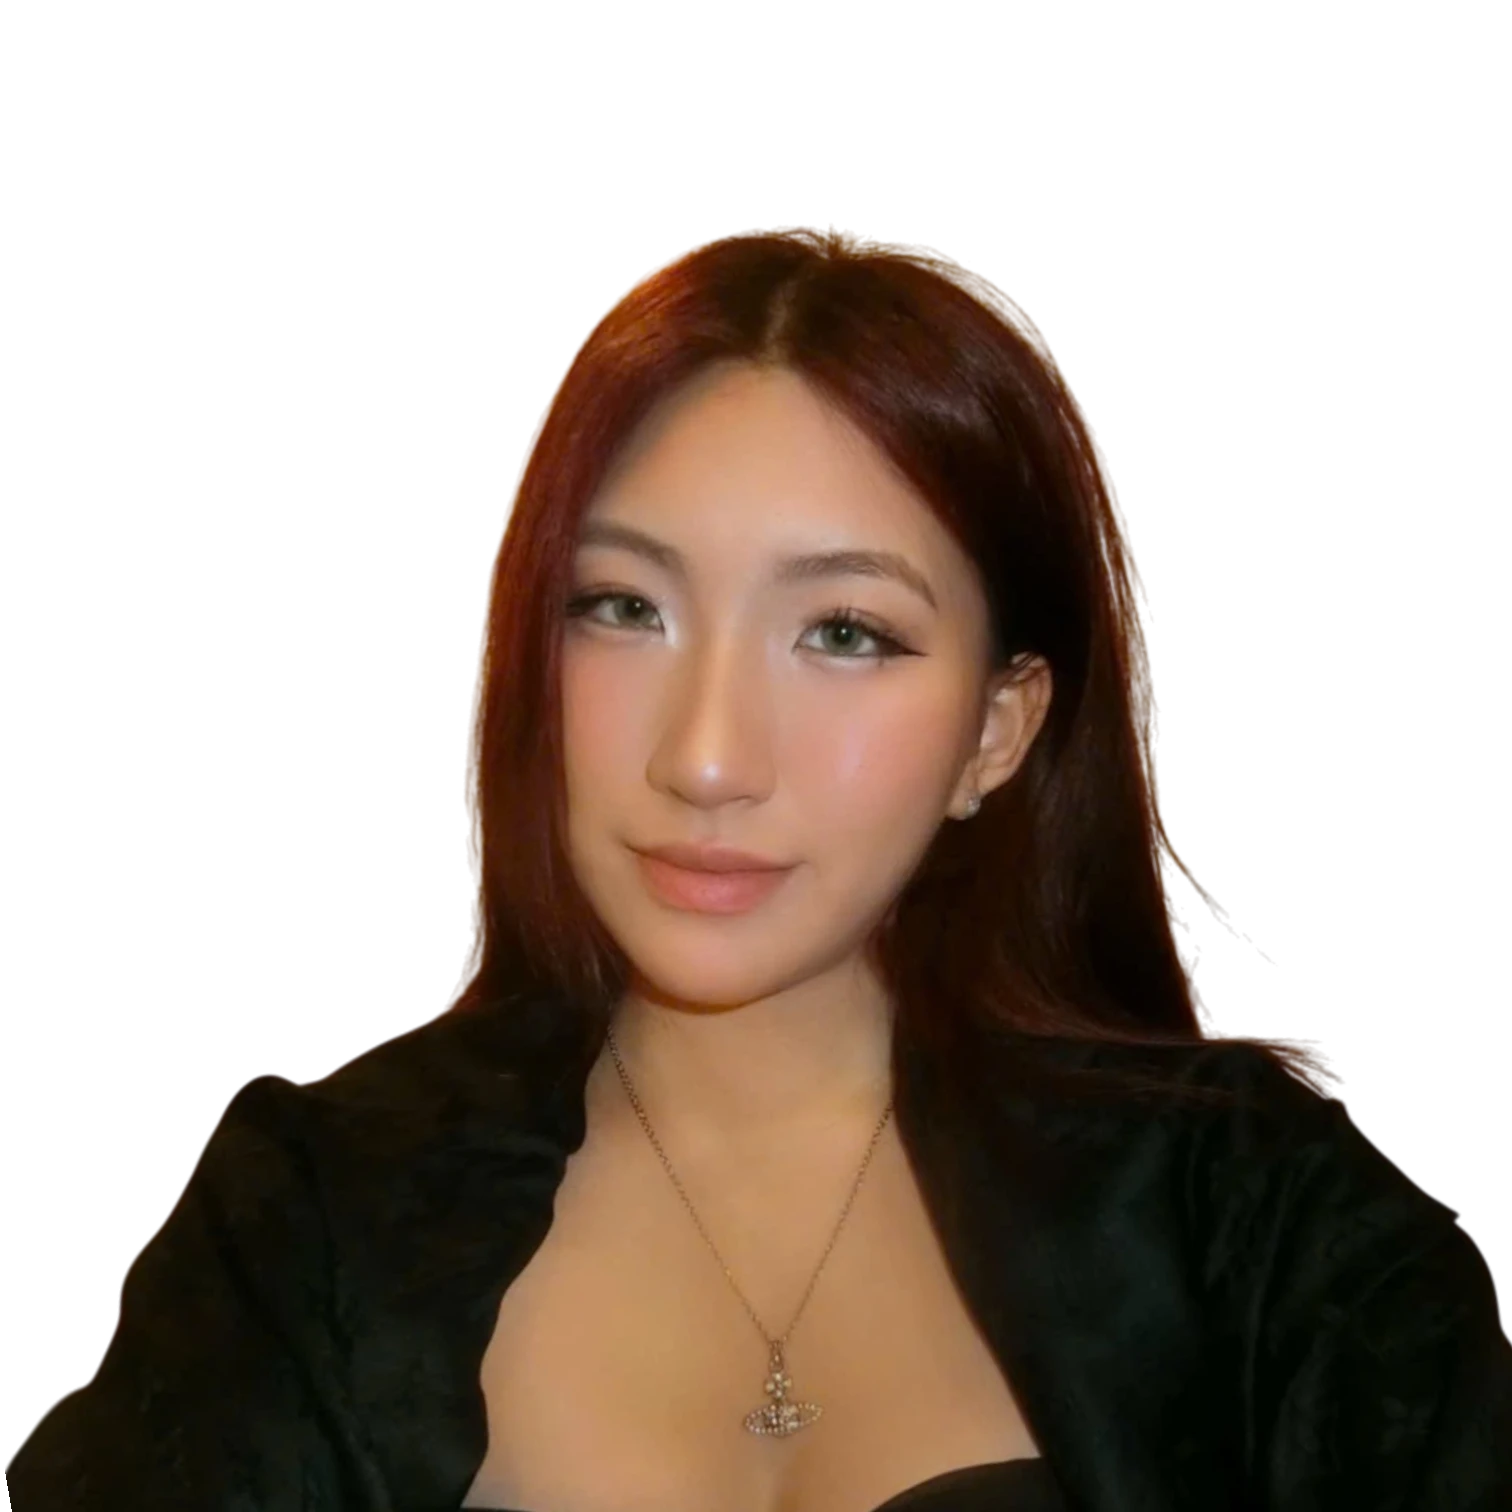
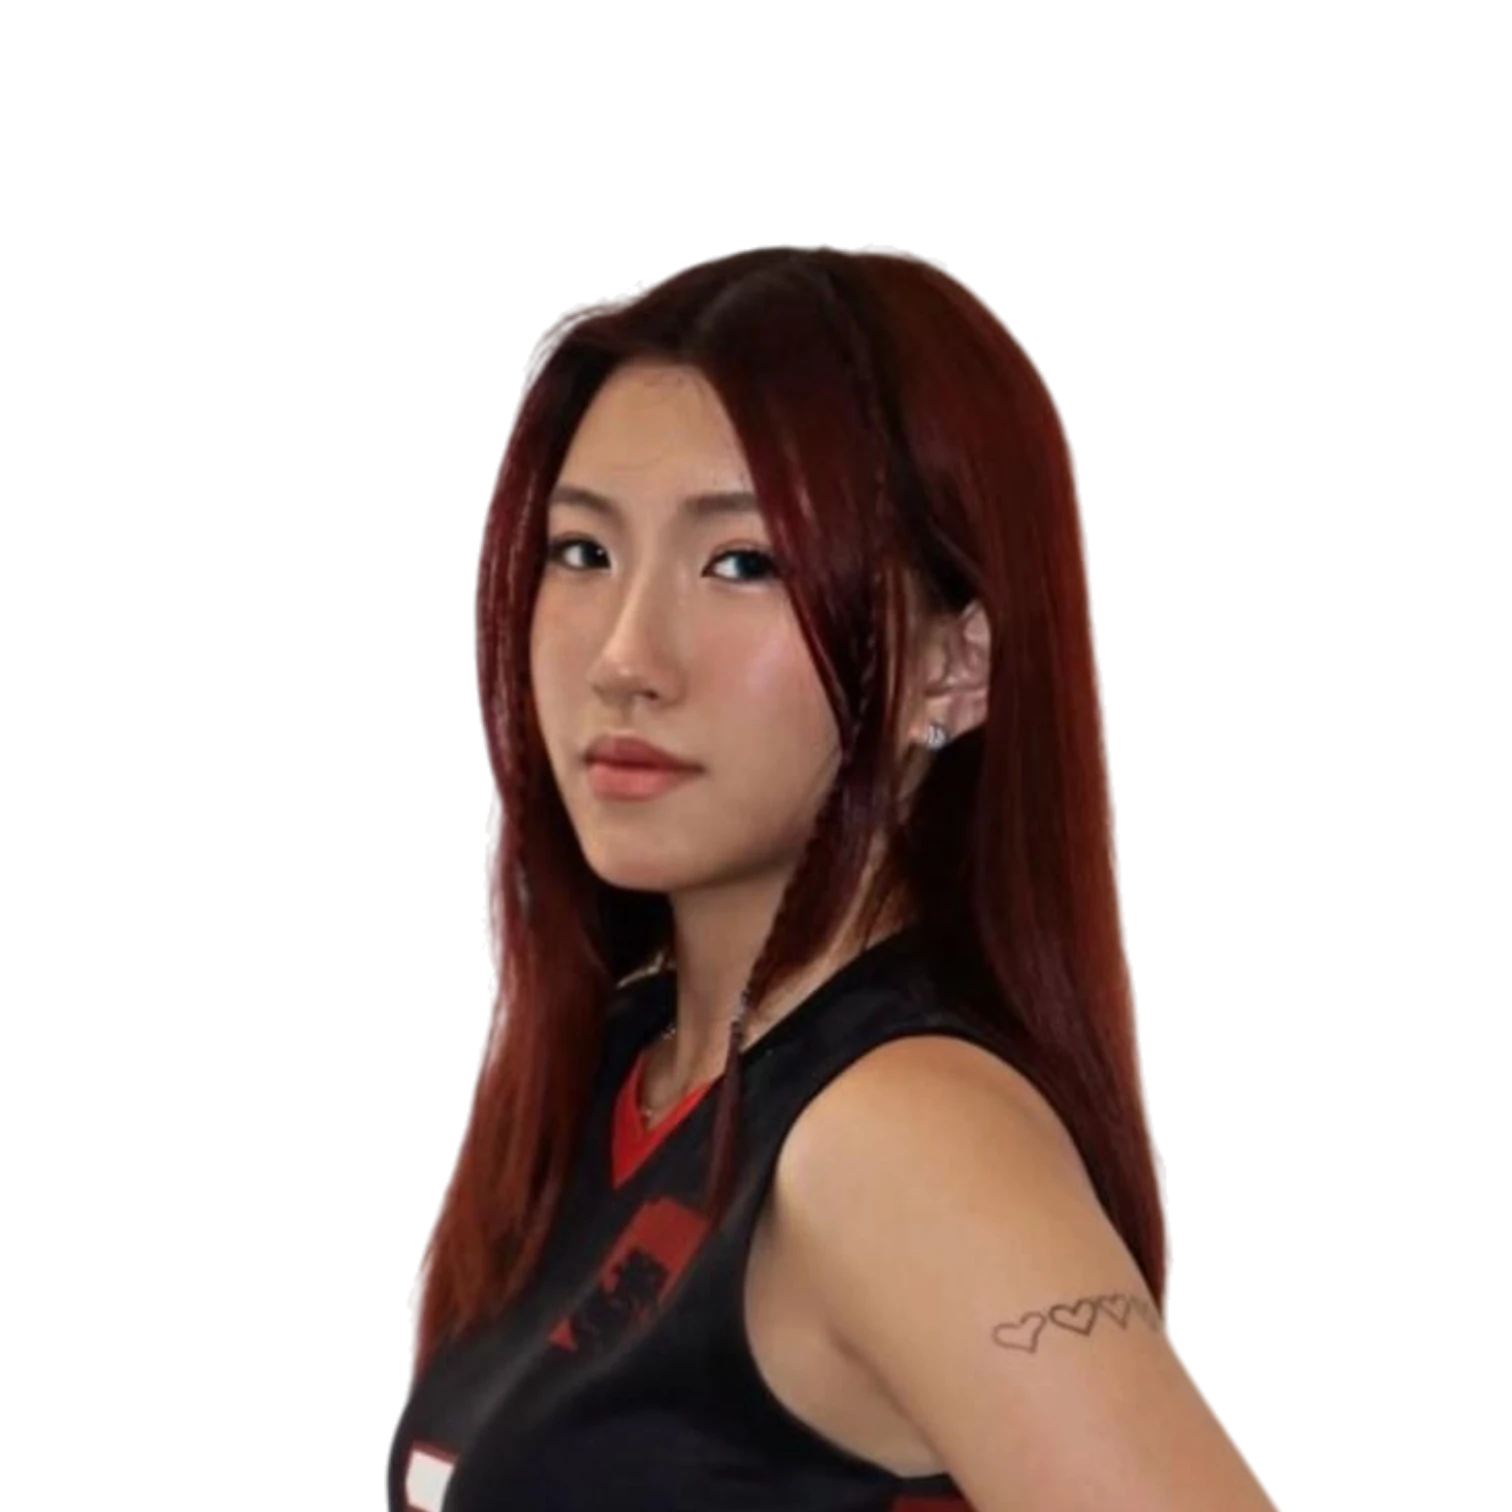
updated

diff --git a/assets/js/data/teams.js b/assets/js/data/teams.js
@@ -7,7 +7,7 @@ if (typeof window.teamsData === 'undefined') {
         teamA: {
             name: "Team A",
             rank: 1,
-            description: "Elite Division - Our strongest lineup", 
+            description: "Elite Division - Our strongest lineup",
             color: "#FF6B35",
             formation: "6-2",
             players: [
@@ -19,7 +19,7 @@ if (typeof window.teamsData === 'undefined') {
                     position: "Outside Hitter",
                     avatar: "assets/images/players/advanced/DongHuuHieu.webp"
                 },
-                
+
                 {
                     id: 100,
                     name: "Hoàng Việt Anh",
@@ -156,7 +156,7 @@ if (typeof window.teamsData === 'undefined') {
                 // 1 LIBERO
                 {
                     id: 14,
-                    name: "Trần Hoàng Khôi",    
+                    name: "Trần Hoàng Khôi",
                     number: 2,
                     position: "Libero",
                     avatar: "assets/images/players/advanced/TranHoangKhoi.webp",
@@ -221,7 +221,7 @@ if (typeof window.teamsData === 'undefined') {
                 // 1 LIBERO
                 {
                     id: 21,
-                    name: "Nguyễn Xuân Trường",    
+                    name: "Nguyễn Xuân Trường",
                     number: 5,
                     position: "Libero",
                     avatar: "assets/images/players/advanced/NguyenXuanTruong.webp",
@@ -286,7 +286,7 @@ if (typeof window.teamsData === 'undefined') {
                 // 1 LIBERO
                 {
                     id: 21,
-                    name: "Nguyễn Thị Quỳnh Như",    
+                    name: "Nguyễn Thị Quỳnh Như",
                     number: 5,
                     position: "Libero",
                     avatar: "assets/images/players/women/NguyenThiQuynhNhu.webp",
@@ -360,7 +360,7 @@ if (typeof window.teamsData === 'undefined') {
                     number: 2,
                     position: "Setter",
                     avatar: "assets/images/players/advanced/HoangQuocDuy.webp",
-                    
+
                 },
                 {
                     id: 20,
@@ -368,12 +368,12 @@ if (typeof window.teamsData === 'undefined') {
                     number: 3,
                     position: "Setter",
                     avatar: "assets/images/players/middle/SamiSamJanjua.webp",
-                    
+
                 },
                 // 1 LIBERO
                 {
                     id: 21,
-                    name: "Đào Nhật Minh",    
+                    name: "Đào Nhật Minh",
                     number: 18,
                     position: "Libero",
                     avatar: "assets/images/players/middle/DaoNhatMinh.webp",
@@ -382,7 +382,7 @@ if (typeof window.teamsData === 'undefined') {
                 }
             ]
         },
-        
+
     };
 
     window.teamsData = teamsData;
@@ -399,7 +399,7 @@ if (typeof window.leadershipData === 'undefined') {
             avatar: "assets/images/players/advanced/HoangQuocDuy.webp",
             achievements: [
                 "3+ years in volleyball management",
-                "Always toward the community", 
+                "Always toward the community",
                 "Sports development advocate"
             ],
             social: {
@@ -407,6 +407,48 @@ if (typeof window.leadershipData === 'undefined') {
                 facebook: "#",
                 email: "quocduyhoang42@gmail.com"
             }
+        },
+        middleLeader2: {
+            id: 104,
+            name: "Lương Thế Phong",
+            birthYear: 2007,
+            title: "DVA Middle Assistant Leader",
+            description: "Versatile DVA Middle Assistant Leader with 3+ years of court experience, sharp tactical mindset, and impactful team leadership",
+            avatar: "assets/images/players/middle/LuongThePhong.webp",
+            achievements: [
+                "3+ years of experience",
+                "Sharp tactical mindset & court vision",
+                "Strong team management & positive spirit",
+                "Adaptable all-around player"
+            ],
+            social: {
+                linkedin: "#",
+                facebook: "#",
+                email: "thephong@dva.volleyball"
+            },
+            specialty: "Outside Hitter / Libero",
+            role: "Assistant Leader"
+        },
+        middleLeader: {
+            id: 103,
+            name: "Phùng Kiến Quốc",
+            title: "DVA Middle Assistant Leader & Team Captain",
+            description: "Assistant leader of DVA Middle team and captain of HORIZON High School volleyball team, specializing in Outside Hitter position",
+            avatar: "assets/images/players/middle/PhungKienQuoc.webp",
+            achievements: [
+                "DVA Middle assistant leader",
+                "HORIZON High School team captain",
+                "Outside Hitter",
+                "Youth team development leader"
+            ],
+            social: {
+                linkedin: "#",
+                facebook: "#",
+                email: "kienquoc@dva.volleyball"
+            },
+            specialty: "Outside Hitter",
+            school: "HORIZON High School",
+            role: "Assistant Leader & Captain"
         },
         contentCreator: {
             id: 101,
@@ -416,7 +458,7 @@ if (typeof window.leadershipData === 'undefined') {
             avatar: "assets/images/players/advanced/HoangMinhHieu.webp",
             achievements: [
                 "5+ years volleyball experience",
-                "Setter position", 
+                "Setter position",
                 "Creative content developer",
                 "Sports media creator"
             ],
@@ -429,50 +471,11 @@ if (typeof window.leadershipData === 'undefined') {
             specialty: "Setter Position",
             experience: "5+ years",
             role: "Content Creator & Player"
-        },
-    
-        middleLeader: {
-                id: 103,
-                name: "Phùng Kiến Quốc",
-                title: "DVA Middle Assistant Leader & Team Captain",
-                description: "Assistant leader of DVA Middle team and captain of HORIZON High School volleyball team, specializing in Outside Hitter position",
-                avatar: "assets/images/players/middle/PhungKienQuoc.webp",
-                achievements: [
-                    "DVA Middle assistant leader",
-                    "HORIZON High School team captain",
-                    "Outside Hitter",
-                    "Youth team development leader"
-                ],
-                social: {
-                    linkedin: "#",
-                    facebook: "#",
-                    email: "kienquoc@dva.volleyball"
-                },
-                specialty: "Outside Hitter",
-                school: "HORIZON High School",
-                role: "Assistant Leader & Captain"
-            },
-        middleLeader2:
-            {
-                id: 104,
-                name: "Đào Nhật Minh",
-                title: "DVA Middle Assistant Leader & Team Captain RGSV School",
-                description: "Assistant leader of DVA Middle team and captain of RGSV School volleyball team, specializing in Outside Hitter position. Also can play other position. Hoping to gain experience.",
-                avatar: "assets/images/players/middle/DaoNhatMinh.webp",
-                achievements: [
-                    "+4 years of experience in volleyball specializing in Libero position",
-                    "RGSV School team captain",
-                    "Libero & Outside Hitter"
-                ],
-                social: {
-                    linkedin: "#",
-                    facebook: "#",
-                    email: "nhatminh@dva.volleyball"
-                },
-                specialty: "Outside Hitter",
-                school: "RGSV School",
-                role: "Assistant Leader & Captain"
-            }
+        }
+        
+        
+
+        
     };
 
     window.leadershipData = leadershipData;
@@ -482,7 +485,7 @@ if (typeof window.leadershipData === 'undefined') {
 if (typeof window.teamPositionColors === 'undefined') {
     const teamPositionColors = {
         'Setter': '#3B82F6',
-        'Outside Hitter': '#EF4444',   
+        'Outside Hitter': '#EF4444',
         'Middle Blocker': '#10B981',
         'Opposite Hitter': '#F59E0B',
         'Libero': '#8B5CF6'
@@ -495,7 +498,7 @@ if (typeof window.teamPositionColors === 'undefined') {
 if (typeof window.formationInfo === 'undefined') {
     const formationInfo = {
         '6-2': 'Two setters with 6 attackers when setters are in back row',
-        '5-1': 'One setter with 5 attackers - most common formation', 
+        '5-1': 'One setter with 5 attackers - most common formation',
         '4-2': 'Two setters always in front row with 4 attackers'
     };
 

diff --git a/assets/js/data/players.js b/assets/js/data/players.js
@@ -317,37 +317,6 @@
                 }
             },
             {
-                id: 212,
-                name: "Đỗ Văn Đạt",
-                shortName: "DVD",
-                number: 8,
-                position: "Middle Blocker",
-                positionCode: "MB",
-                height: "178cm",
-                reachHeight: "290cm",
-                address: "Thanh Hoá",
-                born: "2004",
-                age: 21,
-                avatar: "assets/images/players/advanced/DoVanDat.webp",
-                country: "Vietnam",
-                countryCode: "VN",
-                flag: "🇻🇳",
-                isCaptain: false,
-                isViceCaptain: false,
-                team: "middle",
-                status: "active",
-                joinedYear: 2025,
-                experience: 3,
-                stats: {
-                    matches: 42,
-                    wins: 28,
-                    points: 287,
-                    aces: 34,
-                    blocks: 45,
-                    assists: 12
-                }
-            },
-            {
                 id: 213,
                 name: "Nông Văn Thuận",
                 shortName: "NVT",
@@ -391,37 +360,6 @@
                 born: "2007",
                 age: 18,
                 avatar: "assets/images/players/middle/NguyenNgocKhanhHuy.webp",
-                country: "Vietnam",
-                countryCode: "VN",
-                flag: "🇻🇳",
-                isCaptain: false,
-                isViceCaptain: false,
-                team: "middle",
-                status: "active",
-                joinedYear: 2025,
-                experience: 2,
-                stats: {
-                    matches: 45,
-                    wins: 34,
-                    points: 267,
-                    aces: 39,
-                    blocks: 56,
-                    assists: 28
-                }
-            },
-            {
-                id: 217,
-                name: "Nguyễn Quang Minh",
-                shortName: "NQM",
-                number: 12,
-                position: "Outside Hitter",
-                positionCode: "OH",
-                height: "169cm",
-                reachHeight: "290cm",
-                address: "Ninh Bình",
-                born: "2006",
-                age: 20,
-                avatar: "assets/images/players/middle/NguyenQuangMinh.webp",
                 country: "Vietnam",
                 countryCode: "VN",
                 flag: "🇻🇳",
@@ -786,25 +724,25 @@
             },
             {
                 id: 840,
-                name: "Chu Thị Ngọc",
-                shortName: "CTN",
-                number: 12,
-                position: "Outside Hitter",
-                positionCode: "OH",
-                height: "177cm",
-                reachHeight: "294cm",
-                address: "Nghệ An",
-                born: "1999",
-                age: 17,
-                avatar: "assets/images/players/middle/ChuThiNgoc.webp",
+                name: "Lương Thế Phong",
+                shortName: "LTP",
+                number: 11,
+                position: "Setter",
+                positionCode: "S",
+                height: "165cm",
+                reachHeight: "290cm",
+                address: "Hà Nội",
+                born: "2007",
+                age: 19,
+                avatar: "assets/images/players/middle/LuongThePhong.webp",
                 country: "Vietnam",
                 countryCode: "VN",
                 flag: "🇻🇳",
-                isCaptain: false,
+                isCaptain: true,
                 isViceCaptain: true,
                 team: "middle",
                 status: "active",
-                joinedYear: 2025,
+                joinedYear: 2026,
                 experience: 5,
                 stats: {
                     matches: 65,

diff --git a/assets/js/data/rankings.js b/assets/js/data/rankings.js
@@ -20,8 +20,7 @@ if (typeof window.rankingsData === 'undefined') {
                     { id: 3, name: "Nông Văn Thuận", avatar: "assets/images/players/middle/NongVanThuan.webp", number: 4, score: 97 },
                     { id: 4, name: "Ali Janjua", avatar: "assets/images/players/middle/AliJanjua.webp", number: 20, score: 94 },
                     { id: 36, name: "Woohyeok Jang", avatar: "assets/images/players/middle/WoohyeokJang.webp", number: 8, score: 91 },
-                    { id: 38, name: "Trần Tuấn Kiệt", avatar: "assets/images/players/middle/TranTuanKiet.webp", number: 15, score: 88 },
-                    { id: 40, name: "Nguyễn Quang Minh", avatar: "assets/images/players/middle/NguyenQuangMinh.webp", number: 19, score: 85 }
+                    { id: 38, name: "Trần Tuấn Kiệt", avatar: "assets/images/players/middle/TranTuanKiet.webp", number: 15, score: 88 }
                 ],
                 "Opposite Hitter": [
                     { id: 5, name: "Ngô Lý Quang Huy", avatar: "assets/images/players/middle/NgoLyQuangHuy.webp", number: 6, score: 99 },

diff --git a/assets/js/components/footer.js b/assets/js/components/footer.js
@@ -327,7 +327,7 @@ class FooterComponent {
                 // Add actual social media URLs
                 const socialUrls = {
                     'Facebook': 'https://www.facebook.com/profile.php?id=61552198143397',
-                    'Instagram': 'https://www.instagram.com/nathan_hquoc/?igsh=aHA1ajI5c20xd2g%3D&utm_source=qr', 
+                    'Instagram': 'https://www.instagram.com/_nathan.hq_/', 
                     'YouTube': 'https://youtube.com',
                     'Twitter': 'https://twitter.com',
                     'LinkedIn': 'https://www.linkedin.com/in/ho%C3%A0ng-qu%E1%BB%91c-duy-7428b3330?utm_source=share&utm_campaign=share_via&utm_content=profile&utm_medium=ios_app'

diff --git a/pages/information.html b/pages/information.html
@@ -145,6 +145,15 @@
                 </div>
 
                 <div class="info-card">
+                    <div class="info-icon">💰</div>
+                    <div class="info-content">
+                        <h3>Lệ phí</h3>
+                        <p class="info-value">100k VNĐ</p>
+                        <p class="info-desc">Phí tham gia Club (6 tháng / 100k VNĐ)</p>
+                    </div>
+                </div>
+
+                <div class="info-card">
                     <div class="info-icon">🏐</div>
                     <div class="info-content">
                         <h3>Bóng</h3>
